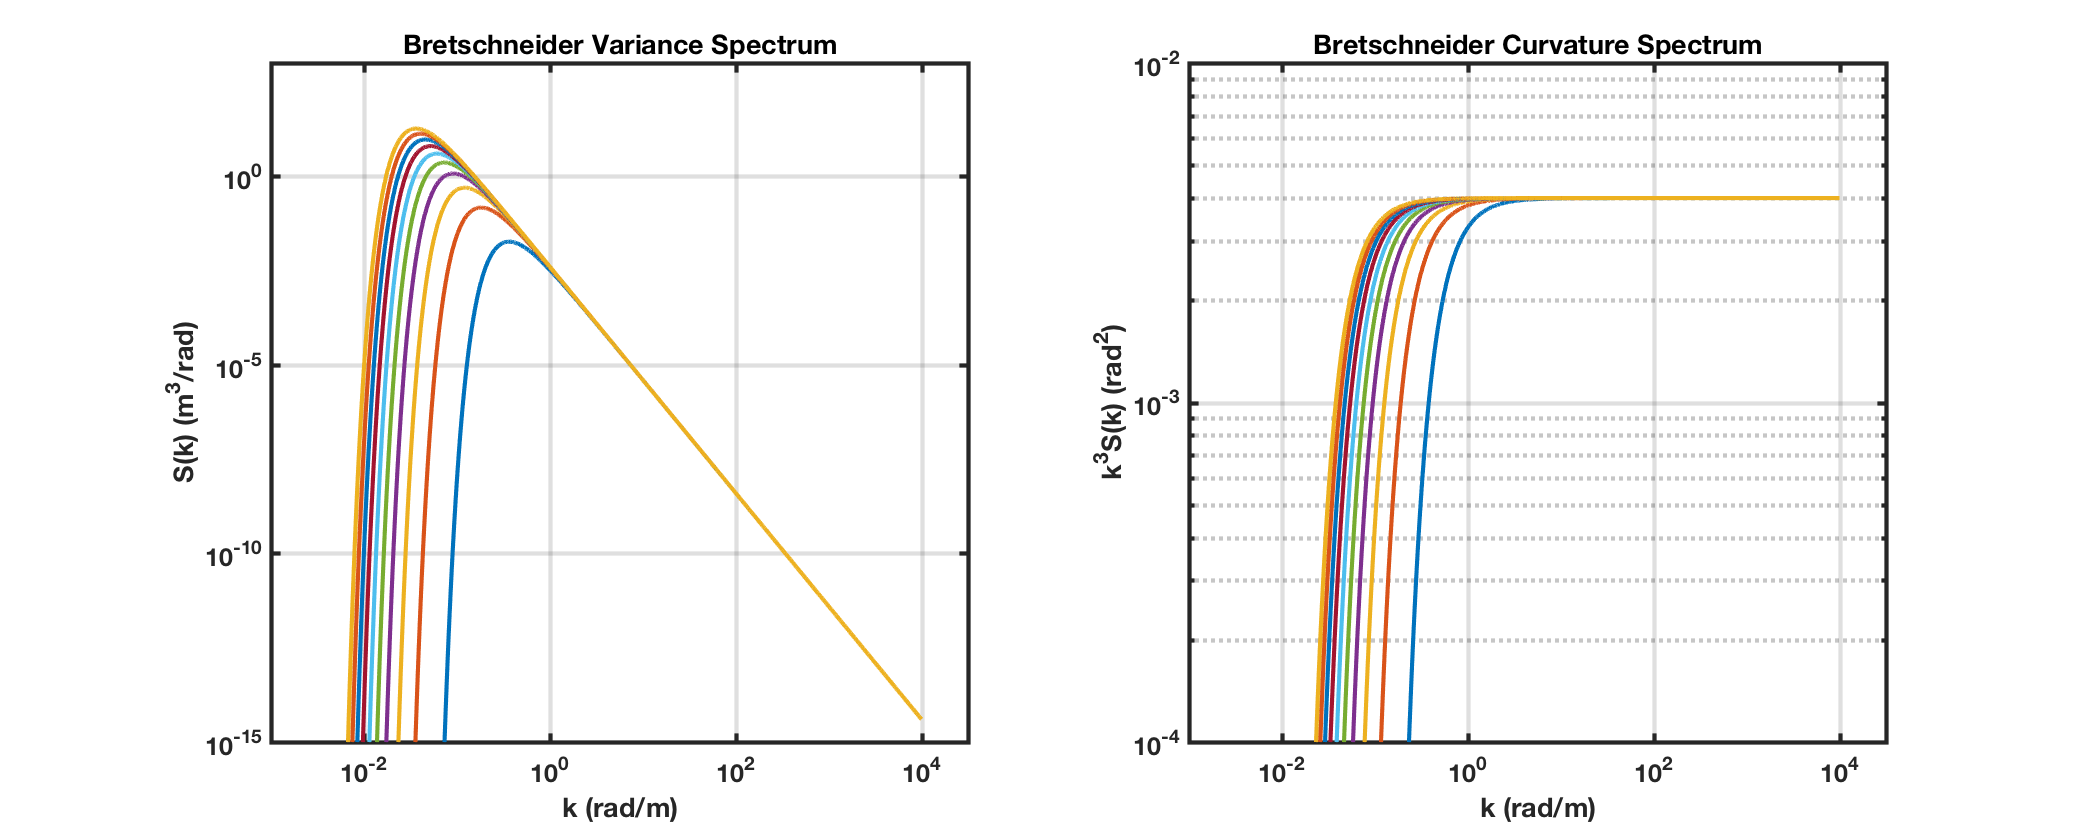
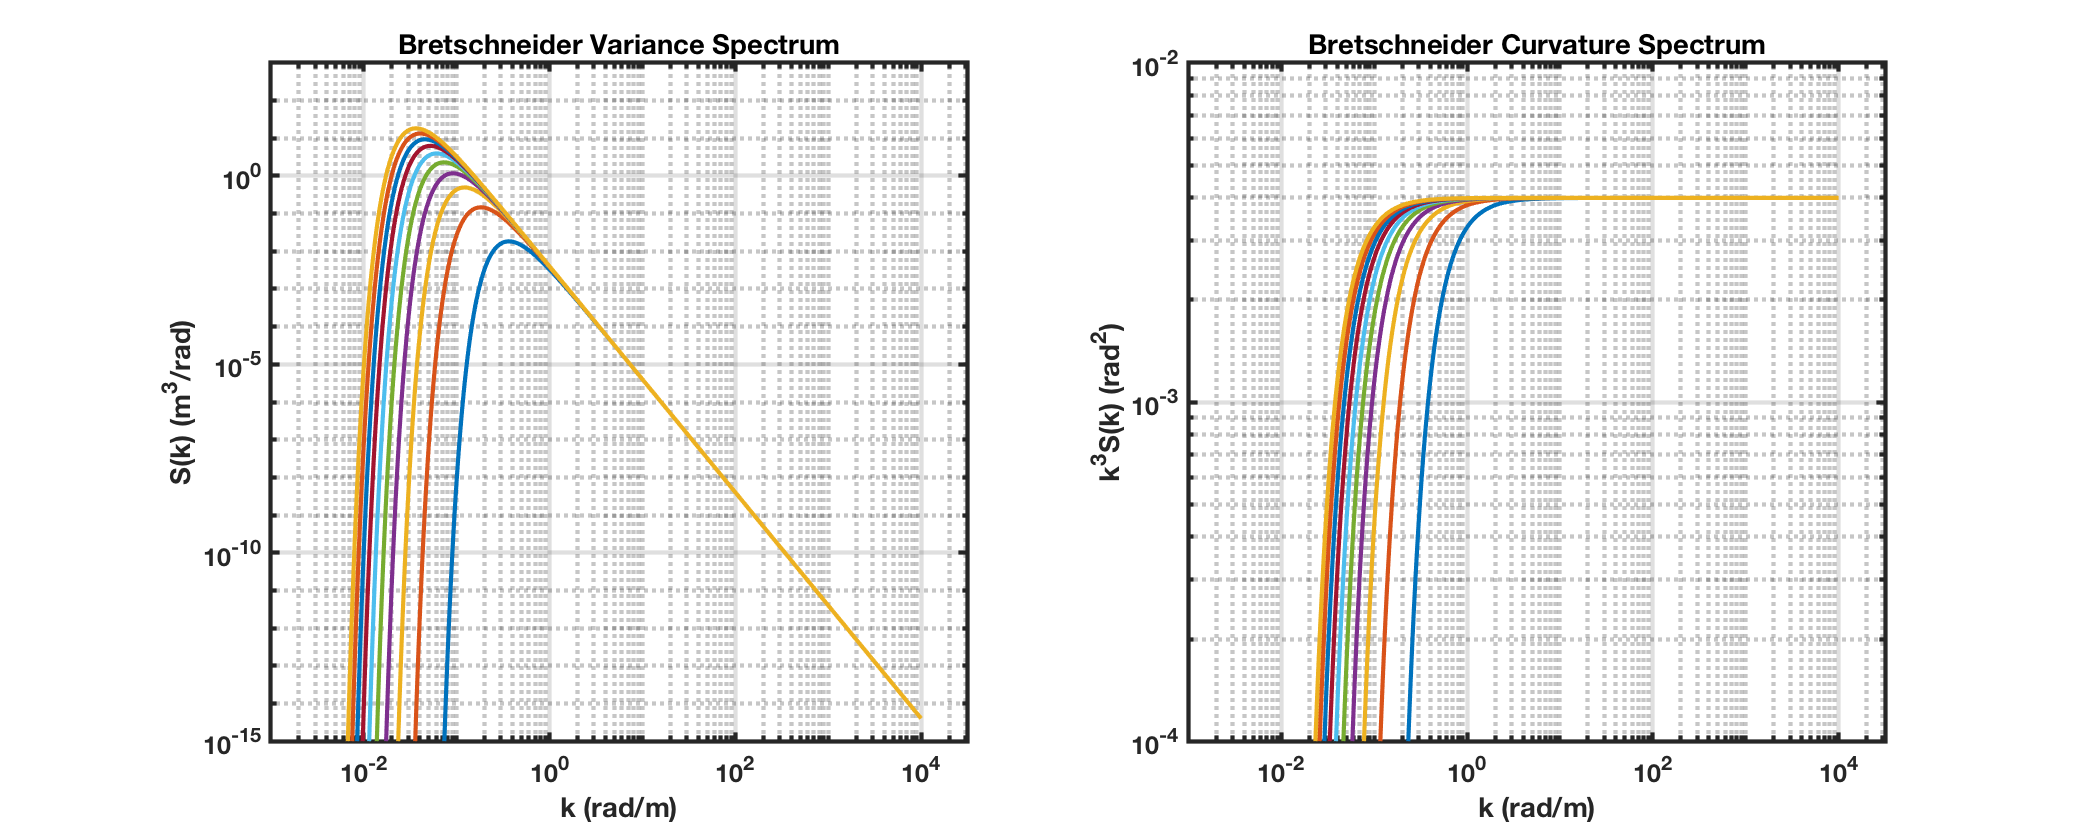
modifications to gridding in plots, corrections to typos

diff --git a/src/ocean_surface_generation.tex b/src/ocean_surface_generation.tex
@@ -4,7 +4,7 @@ To capture the physical behavior of electromagnetic waves reflecting off the sur
 \section {Waves in the Ocean}
 Ocean waves are primarily driven by wind and start when turbulence creates capillary or surface waves with small wavelengths (on the order of a few centimeters). As the wind continues to blow, it increases both the amplitude and the wavelength of the waves until they start to interact. These interactions continue to increase the wavelength and phase speed of the waves until they are traveling faster than the wind, at which point the sea is fully developed. As a sea develops, the energy will transfer from higher frequencies to lower frequencies by the processes just described.
 
-Before discussing the statistical properties of ocean waves, it is useful to review some standard nomenclature. Fetch is the length over which the wind can be considered constant, and a longer fetch generally means higher waves. Significant wave height is the mean wave height of the highest third of the waves. It is represented in the literature as $H_{1/3}$ and is equal to 4 times the standard deviation of the wave height, $H_{1/3} = 4\sigma_h$. Wave height refers to the mean difference between successive peaks and throughs (twice the amplitude).
+Before discussing the statistical properties of ocean waves, it is useful to review some standard nomenclature. Fetch is the length over which the wind can be considered constant, and a longer fetch generally means higher waves. Significant wave height is the mean wave height of the highest third of the waves. It is represented in the literature as $H_{1/3}$ and is equal to 4 times the standard deviation of the wave height, $H_{1/3} = 4\sigma_h$. Wave height refers to the mean difference between successive peaks and troughs (twice the amplitude).
 
 The phase speed of waves due to gravity in deep water is $v_p=\sqrt{g/k}$, which allows us to write the dispersion relation $\omega = \sqrt{gk}$. This dispersion relation is important for changing variables in the power spectra, for instance converting $S(\omega)$ to $S(k)$. We can use the fact that the amount of energy contained per unit interval is constant so that $S(k)dk = S(\omega)d\omega = S(f)df$. To convert a power spectrum in terms of $\omega$ to one in terms of $k$, we would use the expression in Equation \ref{os_eq:0aa}.
 \begin{equation}
@@ -13,10 +13,10 @@ The phase speed of waves due to gravity in deep water is $v_p=\sqrt{g/k}$, which
   \end{equation}
 
 \section{Ocean Wave Power Spectra}  \label{os_sec:power_spectra}
-Many methods have been proposed to statistically describe the behavior of ocean waves. These range from the simplest sea state representation with a very coarse binning of wind speed and sea height variations to the mathematically complex Elfouhaily variance power spectrum that unifies the more recent work.
+Many methods have been proposed to statistically describe the behavior of ocean waves. These range from the simplest sea state representation with a very coarse binning of wind speed and sea height variations to the mathematically complex Elfouhaily variance power spectrum.
 
 \subsection {Sea State}
-The modern concept of sea state is a combination of the Beaufort wind scale and the Douglas sea scale. The Beaufort wind scale was developed in the early 1800s by sir Francis Beaufort and the Douglas sea scale was developed in the 1920s by H.P Douglass, both of the Royal Navy \cite{uk_met_fact_sheet6}. The Beaufort wind scale measures force vs. wind speed in 12 bins from "Calm" to "Hurricane" and was extended in 1944 to add scales up to 17. In 1960, it was further extended to add probable wave heights. The Douglas sea scale on the other hand measures sea height in 9 bins from "Calm (glossy)" to "Phenomenal". The Word Meterological Organization (WMO) has adopted the Douglas sea scale as a standard \cite{wmo_code} and we can compare this to the Beaufort wind scale to add the dependency on wind speed as shown in Table \ref{os_tab:0}. There are no true standards when working with sea states, so care must be taken when comparing results between research groups.
+The modern concept of sea state is a combination of the Beaufort wind scale and the Douglas sea scale. The Beaufort wind scale was developed in the early 1800s by sir Francis Beaufort and the Douglas sea scale was developed in the 1920s by H.P Douglas, both of the Royal Navy \cite{uk_met_fact_sheet6}. The Beaufort wind scale measures force vs. wind speed in 12 bins from "Calm" to "Hurricane" and was extended in 1944 to add scales up to 17. In 1960, it was further extended to add probable wave heights. The Douglas sea scale on the other hand measures sea height in 9 bins from "Calm (glossy)" to "Phenomenal". The Word Meterological Organization (WMO) has adopted the Douglas sea scale as a standard \cite{wmo_code} and we can compare this to the Beaufort wind scale to add the dependency on wind speed as shown in Table \ref{os_tab:0}. There are no true standards when working with sea states, so care must be taken when comparing results between research groups.
 
 \begin{table}[H]
   \begin{center}
@@ -49,7 +49,7 @@ S(k) = \frac{0.0081}{k^3}e^{-0.74\left(\frac{g}{k}\right)^2U_{19}^{-4}}
 \label{os_eq:1}
 \end{equation}
  \renewcommand{\baselinestretch}{2} \small\normalsize
-The PM spectrum is a single parameter spectrum as it only allows tuning of the spectrum through wind speed in the exponential term of Equation \ref{os_eq:1}. The power spectrum ($S$) is shown in the left hand side of Figure \ref{os_fig:1} and the associated curvature spectrum ($k^3S$) is shown in the right hand side of Figure \ref{os_fig:1}, both for wind speeds from 3 m/s to 21 m/s in increments of 2 m/s. The curvature spectrum is also referred to as the saturation spectrum. It removes the $k^-3$ dependence of the power spectrum and allows some high spatial frequency behavior to be more readily observed.
+The PM spectrum is a single parameter spectrum as it only allows tuning of the spectrum through wind speed in the exponential term of Equation \ref{os_eq:1}. The power spectrum ($S$) is shown in the left hand side of Figure \ref{os_fig:1} and the associated curvature spectrum ($k^3S$) is shown in the right hand side of Figure \ref{os_fig:1}, both for wind speeds from 3 m/s to 21 m/s in increments of 2 m/s. The curvature spectrum is also referred to as the saturation spectrum. It removes the $k^-3$ dependence of the power spectrum and allows high spatial frequency behavior to be more readily observed.
  
  \begin{figure}[H]
   \begin{center}
@@ -62,7 +62,7 @@ The PM spectrum is a single parameter spectrum as it only allows tuning of the s
 \end{figure}
  \renewcommand{\baselinestretch}{2} \small\normalsize
  
- From Figure \ref{os_fig:1} we can see that the wind speed impacts the spectral peak and low spatial frequency cutoff but has no effect for high spatial frequencies.
+ From Figure \ref{os_fig:1} we can see that the wind speed impacts the spectral peak and low spatial frequency cutoff but has no effect at high spatial frequencies.
  
 The PM spectrum assumes deep water, infinite fetch and no swells and has repeatedly been shown to be accurate for gravity waves in fully developed seas, but fails to capture spectral peaks due to high winds over short fetches. This means that the low spatial frequency component of the power spectrum is valid in almost all cases but the high spatial frequency component is not.
 
@@ -75,7 +75,6 @@ To overcome the limitations of a spectrum that requires fully developed seas, se
   \end{gathered}
 \end{equation}
 \renewcommand{\baselinestretch}{2} \small\normalsize
-
 The Bretschneider power spectrum ($S$) is shown in the left hand side of Figure \ref{os_fig:1a} and the associated curvature spectrum ($k^3S$) is shown in the right hand side of Figure \ref{os_fig:1a}, both for wave height standard deviations from 0.1 m to 1 m in increments of 0.1 m.
 
  \begin{figure}[H]
@@ -91,7 +90,7 @@ The Bretschneider power spectrum ($S$) is shown in the left hand side of Figure 
 The Bretschneider spectrum is a two-parameter spectrum as it allows tuning of both the exponential term and the amplitude in Equation \ref{os_eq:1a}.
 
 \subsection{JONSWAP Spectrum}
-Join North Sea Wave Project in the 1970s modified the Pierson-Moskowitz spectrum by adding a peak enhancement factor as shown in Equation \ref{os_eq:1b} \cite{michel_sea_spectra}.
+Join North Sea Wave Project (JONSWAP) in the 1970s modified the Pierson-Moskowitz spectrum by adding a peak enhancement factor as shown in Equation \ref{os_eq:1b} \cite{michel_sea_spectra}.
 \begin{equation}
   \label{os_eq:1b}
   S(k) = S_{PM}(k)\nu^{\frac{k-k_0}{2\sigma^2k_0}} 
@@ -155,7 +154,7 @@ The high spatial frequency region, $B_h$, is given by Equation \ref{os_eq:4} and
    High spatial frequency spectrum dependencies:
 \begin{align}
   F_m &= L_{PM}J_pe^{-\frac{1}{4}\left[k/_{k_m} - 1 \right]^2 } & k_m & = 370 \text{ rad/m} &  c_m &=\sqrt{\frac{2g}{k_m}} = 0.23 \text{ m/s} \\
-  u^* &= \sqrt{0.00144}U_{10}  & L_{PM} &=e^{-\frac{5}{4}\left(\frac{k_p}{k} \right)^2}  &  J_p &= \gamma^\Gamma
+  u^* &= \sqrt{Cd_{10N}}U_{10}  & L_{PM} &=e^{-\frac{5}{4}\left(\frac{k_p}{k} \right)^2}  &  J_p &= \gamma^\Gamma
 \end{align}
 \end{subequations}
 \renewcommand{\baselinestretch}{2} \small\normalsize
@@ -186,6 +185,7 @@ The high spatial frequency region, $B_h$, is given by Equation \ref{os_eq:4} and
   $\alpha_m$ & Generalized Phillips-Kitaigorodskii short wave equilibrium range parameter \\ \hline
   $L_{PM}$ & PM shape spectrum \\ \hline
   $J_p$ & JONSWAP peak enhancement function \\ \hline
+  $Cd_{10N}$ & Neutral stability drag coefficient at 10 m above sea level, $\approx 0.00144$ \\ \hline
 \end{tabular}
 \end{center}
 \end{table}
@@ -215,6 +215,31 @@ We can compute the inverse age parameter from fetch as shown in Equation \ref{os
 \end{equation}
 \renewcommand{\baselinestretch}{2} \small\normalsize
 
+\subsubsection{Spectrum Visualization}
+The Elfohaily variance spectrum is shown in the left hand side of Figure \ref{os_fig:3} and the associated curvature spectrum is shown in the right hand side of Figure \ref{os_fig:3}. These figures were generated for wind speeds from 3 m/s to 21 m/s in increments of 2 m/s, matching Figure 8 in \cite{elfouhaily}.
+\begin{figure}[H]
+  \begin{center}
+\includegraphics[width=6in]{../media/Ocean_Surface/elf_variance_curvature_spectrum.png}
+  \end{center}
+  \renewcommand{\baselinestretch}{1} \small\normalsize
+  \begin{quote}
+    \caption[Elfouhaily Variance and Curvature Spectra vs. $U_{10}$]{Elfouhaily Variance and Curvature Spectra vs. $U_{10}$\label{os_fig:3}}
+  \end{quote}
+\end{figure}
+\renewcommand{\baselinestretch}{2} \small\normalsize
+
+To understand the impact from the inverse age parameter, the Elfohaily variance spectrum is shown in the left hand side of Figure \ref{os_fig:3a} and the associated curvature spectrum is shown in the right hand side of Figure \ref{os_fig:3a}. These figures were generated for $\Omega$ ranging from $0.84$ (fully developed) to $5.0$ (very young). From this figure, we can see that the spectrum reflects energy transferring from high spatial frequencies to low spatial frequencies and the spectral peak flattening as the sea develops.
+\begin{figure}[H]
+  \begin{center}
+\includegraphics[width=6in]{../media/Ocean_Surface/elf_variance_curvature_spectrum_age.png}
+  \end{center}
+  \renewcommand{\baselinestretch}{1} \small\normalsize
+  \begin{quote}
+    \caption[Elfouhaily Variance and Curvature Spectra vs. $\Omega$]{Elfouhaily Variance and Curvature Spectra vs. $\Omega$ \label{os_fig:3a}}
+  \end{quote}
+\end{figure}
+\renewcommand{\baselinestretch}{2} \small\normalsize
+
 \subsubsection{Comparison with PM Spectrum}
 To compare the results, the Elfouhaily and PM variance spectra are shown in the left hand side of Figure \ref{os_fig:2} for wind speeds of 5 m/s and 10 m/s. The inverse age parameter was set to 0.84 to match and the wind speed at 19 m was approximated from $U_{19} \approx 1.026 U_{10}$. The Elfouhaily spectra are shown by the dashed lines and indicate a deviation from the PM spectra at large wave numbers. The corresponding curvature spectra are shown in the right hand side of Figure \ref{os_fig:2}. The secondary peak in the Elfouhaily curvature spectrum is shown at 370 rad/m.
 \begin{figure}[H]
@@ -227,17 +252,6 @@ To compare the results, the Elfouhaily and PM variance spectra are shown in the 
   \end{quote}
 \end{figure}
 \renewcommand{\baselinestretch}{2} \small\normalsize
-To look at the dependence on wind speed, the Elfohaily variance spectrum is shown in the left hand side of Figure \ref{os_fig:3} and the associated curvature spectrum is shown in the right hand side of Figure \ref{os_fig:3}. These figures were generated for wind speeds from 3 m/s to 21 m/s in increments of 2 m/s, matching Figure 8 in \cite{elfouhaily}.
-\begin{figure}[H]
-  \begin{center}
-\includegraphics[width=6in]{../media/Ocean_Surface/elf_variance_curvature_spectrum.png}
-  \end{center}
-  \renewcommand{\baselinestretch}{1} \small\normalsize
-  \begin{quote}
-    \caption[Elfouhaily Variance and Curvature Spectra]{Elfouhaily Variance and Curvature Spectra\label{os_fig:3}}
-  \end{quote}
-\end{figure}
-\renewcommand{\baselinestretch}{2} \small\normalsize
 
 \subsection{Directional Spreading Functions}
 All the variance power spectra that have been discussed are uni-directional, meaning they only apply downrange in the direction of the wind. For two-dimensional surfaces, we need to include angular extent. This can be accomplished by applying a spreading function $\Phi$ as shown in Equation \ref{os_eq:5b} \cite{elfouhaily}.
@@ -246,15 +260,14 @@ All the variance power spectra that have been discussed are uni-directional, mea
 \Psi(k,\phi) = \frac{1}{k}S(k)\Phi(k,\phi)
 \end{equation}
 \renewcommand{\baselinestretch}{2} \small\normalsize
-
 As discussed in \cite{elfouhaily}, the spreading function should be symmetric in upwind-crosswind and will have the form given in Equation \ref{os_eq:5c}.
 \begin{equation}
 \label{os_eq:5c}
-\Psi)(k,\phi) = \frac{1}{2\pi}\left[1 + \Delta(k)\cos(2\phi) \right]
+\Psi(k,\phi) = \frac{1}{2\pi}\left[1 + \Delta(k)\cos(2\phi) \right]
 \end{equation}
 \renewcommand{\baselinestretch}{2} \small\normalsize
 
-Where $\Delta(k)$ is defined as in Equation \ref{os_eq:5d}.
+Here $\Delta(k)$ is defined as in Equation \ref{os_eq:5d}.
 \begin{equation}
 \label{os_eq:5d}
 \begin{gathered}
@@ -273,15 +286,15 @@ The complete unified Elfouhaily spectrum is given in Equation \ref{os_eq:5e}.
 \end{equation}
 
 \section{Generation of Sea Surface Realizations}
-Realizations of sea surfaces rely on adequate sampling to cover the spectral range of interest and then generating an appropriate set of Fourier coefficients.
+Realizations of sea surfaces rely on adequate sampling to cover the both spectral and spatial ranges of interest and then generating an appropriate set of Fourier coefficients.
 
 \subsection{Sampling Constraints}
-In order to generate a random sea surface height realization,  the first thing we need to establish is the number of points to use, $N$, and the spatial domain length to cover, $L$. The spatial domain sampling is then $\Delta x = \frac{L}{N}$ and the frequency domain sampling is $\Delta k = \frac{2\pi}{L}$.
+In order to generate a random sea surface height realization,  the first thing we need to establish is the number of points to use ($N$) and the spatial domain length to cover ($L$). The spatial domain sampling inteval is then $\Delta x = \frac{L}{N}$ and the frequency domain sampling interval is $\Delta k = \frac{2\pi}{L}$.
 
 The highest wave number that can be sampled given these values is $k_{max} = \frac{N}{2}\Delta k = \frac{N\pi}{L} = \frac{\pi}{\Delta x}$ rad/m, which corresponds to a minimum wavelength of $\lambda_{min} = 2\Delta x = \frac{2L}{N} = \frac{4\pi}{\Delta k N}$ m.
 
 \subsection{Power Spectrum Discretization}
-We next follow the procedure outlined in \cite{percival_spectra},  where we work in the frequency domain and start with a set of Gaussian distributed random variables, $W_j$. We need to scale these random numbers by the square root of the variance spectrum, arrange them so the sequence is Hermitian, and then take the inverse Fourier transform. For a sequence of $N$ variables, and a two-sided continuous power spectrum, $S(k)$, we can generate the frequency domain random variables, $V(k)$ as shown in Equation \ref{os_eq:6}.
+We next follow the procedure outlined in \cite{percival_spectra},  where we work in the frequency domain and start with a set of Gaussian distributed random variables, $W_j$. We need to scale these random numbers by the square root of the variance spectrum, arrange them so the sequence is Hermitian, and then take the inverse Fourier transform. For a sequence of length $N$ and a two-sided continuous power spectrum ($S$), we can generate the frequency domain random variables ($V(k)$) as shown in Equation \ref{os_eq:6}.
 \begin{equation}
   \label{os_eq:6}   
   V_j = \begin{cases}
@@ -291,7 +304,7 @@ We next follow the procedure outlined in \cite{percival_spectra},  where we work
     V_{N-j}^*, &  \frac{N}{2} < j \leq N-1 
   \end{cases} 
 \end{equation}
-Since we have a one-sided, discrete power spectrum, there are some additional scaling factors that need to be added to Equation \ref{os_eq:6} for conservation of energy. To convert to a discrete power spectrum, we use the fact that the amount of energy contained per unit interval will be a constant, so that $S(f)df = S(k)dk = S(\omega) d\omega$. To normalize the spectrum to the specified wave number sampling interval, we simply need to multiply by $\Delta k$. Next, since we have a one-sided spectrum rather than a two-sided one, we have half the energy and need to divide the power spectrum by 2. With these factors included, we can define the discrete spectrum as $S_d(k) = \frac{S(k)\Delta k}{2}$.
+Since we have a one-sided, discrete power spectrum, there are some additional scaling factors that need to be added to Equation \ref{os_eq:6} to account for conservation of energy. To convert to a discrete power spectrum, we use the fact that the amount of energy contained per unit interval will be a constant, so that $S(f)df = S(k)dk = S(\omega) d\omega$. To normalize the spectrum to the specified wave number sampling interval, we simply need to multiply by $\Delta k$. Next, since we have a one-sided spectrum rather than a two-sided one, we only have half the energy present and need to divide the power spectrum by 2. With these factors included, we can define the one-sided, discrete spectrum as $S_d(k) = \frac{S(k)\Delta k}{2}$.
 
 In order to understand the remaining scale factors and evaluate the 2nd moment, we can rewrite Equation \ref{os_eq:6} into a more clear form as shown in Equation \ref{os_eq:7}, letting $u(k) = W_{2-j}$ and $v(k) = W_{2j}$.
 \begin{equation}
@@ -301,7 +314,7 @@ In order to understand the remaining scale factors and evaluate the 2nd moment, 
   V(-k) = \sqrt{\frac{1}{2}}\left[u(-k) - iv(-k) \right]\sqrt{S_d(-k)}
   \end{gathered}
 \end{equation}
-The 2nd moment of either of these functions individually is equal to $S_d(k)$, but the 2nd moment of the combined function is $2S_d(k)$. This means we need to multiply the sequence $V(k)$ by an additional scale factor of $\sqrt{\frac{1}{2}}$ to conserve the total energy. We could also arrive at this result by realizing that in Equation \ref{os_eq:6}, we are starting with a sequence of length $N/2$ and extending it to cover a length of $N$, effectively doubling the energy contained. The scaling factor corrections are shown in Equation \ref{os_eq:8}, which is valid for one-side discrete spectra.
+The 2nd moment of either of these functions individually is equal to $S_d(k)$, but the 2nd moment of the combined function is $2S_d(k)$. This means we need to multiply the sequence $V(k)$ by an additional scale factor of $\sqrt{1/2}$ to conserve the total energy. We could also arrive at this result by realizing that in Equation \ref{os_eq:6}, we are starting with a sequence of length $N/2$ and extending it to cover a length of $N$, effectively doubling the energy contained. The scaling factor corrections are shown in Equation \ref{os_eq:8}, which is valid for one-side discrete spectra.
 \begin{equation}
   \label{os_eq:8}   
   V_j = \begin{cases}
@@ -311,7 +324,7 @@ The 2nd moment of either of these functions individually is equal to $S_d(k)$, b
     V_{N-j}^*, &  \frac{N}{2} < j \leq N-1 
   \end{cases} 
 \end{equation}
-Now that we have the random Fourier coefficients, we can generate the sea surface through the inverse Fourier transform. Because the sequence is Hermitian, the sea surface will be purely real.
+Now that we have the random Fourier coefficients, we can generate the sea surface through the inverse Fourier transform as in Equation \ref{os_eq:9}. Because the sequence is Hermitian, the sea surface will be purely real.
 \begin{equation}
   \label{os_eq:9}
   h(x) = \mathcal{F}^{-1}\left\{V(k) \right\}

diff --git a/mfiles/generateElfouhailySpectraVsAge.m b/mfiles/generateElfouhailySpectraVsAge.m
@@ -1,0 +1,68 @@
+function generateElfouhailySpectraVsAge(varargin)
+
+saveFigs = 0;
+
+if nargin == 1
+    saveFigs = varargin{1};
+end
+
+p = linspace(-4,4,10000);
+k = 10.^p;
+
+U10 = 10;
+
+age = [0.84 1.0 1.5 2.0 2.5 3.0 4.0 5.0];
+h(1) = figure('pos',[50 50 1000 400]);
+subplot(1,2,1)
+for (j = 1:length(age)) 
+   S = Elfouhaily(k,U10,age(j));
+   loglog(k,S, 'LineWidth',2);
+   hold on
+end
+
+l1 = linspace(-16,3,26);
+l = 10.^l1;
+plot(370*ones(size(l)),l,'k','LineWidth',2);
+
+lstring = [];
+for (j = 1:length(age))
+    lstring{j} = sprintf('\\Omega = %0.2f', age(j));
+end
+
+grid on
+xlim([10^-3 10^5]);
+ylim([10^-15 10^3])
+xlabel('k (rad/m)');
+ylabel('S(k) (m^3/rad)')
+text(370,10^-5,'\leftarrow k = 370 rad/m','FontWeight','bold','FontSize',12)
+title('Elfouhaily Variance Spectrum')
+set(gca,'LineWidth',2)
+set(gca,'FontSize',12)
+set(gca,'FontWeight','bold')
+legend(lstring);
+
+subplot(1,2,2)
+for (j = 1:length(age)) 
+   S = Elfouhaily(k,U10,age(j));
+   loglog(k,k.^3.*S, 'LineWidth',2);
+   hold on
+end
+
+grid on
+xlim([10^-3 10^5]);
+ylim([10^-4 10^0])
+xlabel('k (rad/m)');
+ylabel('k^3S(k) (rad^2)')
+l1 = linspace(-16,3,26);
+l = 10.^l1;
+plot(370*ones(size(l)),l,'k','LineWidth',2);
+text(370,10^-1.8,'\leftarrow k = 370 rad/m','FontWeight','bold','FontSize',12)
+title('Elfouhaily Curvature Spectrum')
+set(gca,'LineWidth',2)
+set(gca,'FontSize',12)
+set(gca,'FontWeight','bold')
+legend(lstring);
+
+if(saveFigs)
+ saveas(h(1),'elf_variance_curvature_spectrum_age.png','png')
+end

diff --git a/src/document.tex b/src/document.tex
@@ -98,6 +98,12 @@
 \renewcommand{\chaptername}{Appendix}
 \input{saddle_point_method}
 
+\newpage
+\appendix
+\renewcommand{\thechapter}{C}
+\renewcommand{\chaptername}{Appendix}
+\input{ocean_surface_generation}
+
 \renewcommand{\baselinestretch}{1}
 \small\normalsize
 \newpage
@@ -105,5 +111,6 @@
 \newpage
 \bibliographystyle{unsrt} 
 \bibliography{background_bib}
+\bibliography{ocean_surface_bib}
 
 \end{document}
